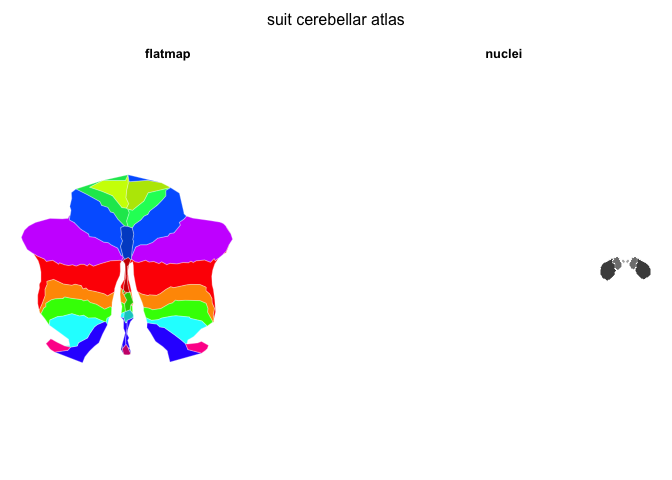
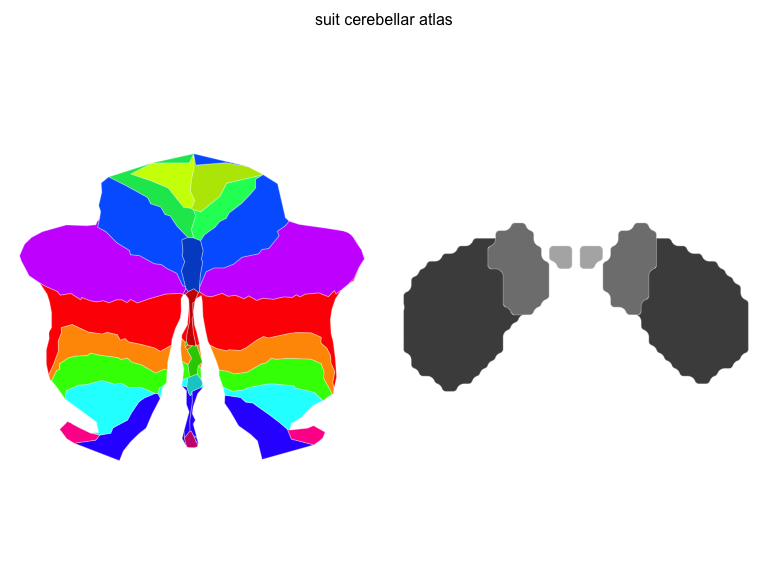
feat: render plot.ggseg_atlas as a grid of per-piece panels
The first base-R rewrite faceted by view with a shared coordinate extent,
which left each atlas a row of near-invisible specks: surface views place
the two hemispheres far apart in one coordinate space, so a shared extent
shrank every region to a dot.

Detect spatially separate pieces (hemispheres, slices) by gap-splitting
each view's coordinates, then draw each piece in its own panel fit to its
own extent, arranged in a near-square grid. Gives a legible overview of
every bundled atlas (dk, aseg, tracula, suit).

- Add pure, tested helpers gap_groups() and plot_cells(); extract draw_piece()
- Regenerate README figures with the grid layout
- Tests for cell detection (8 cells for dk, one per slice view for aseg)

diff --git a/README.md b/README.md
@@ -1,5 +1,4 @@
 
-
 <!-- README.md is generated from README.Rmd. Please edit that file -->
 
 # ggseg.formats
@@ -7,6 +6,8 @@
 <!-- badges: start -->
 
 [![R-CMD-check](https://github.com/ggsegverse/ggseg.formats/actions/workflows/R-CMD-check.yaml/badge.svg)](https://github.com/ggsegverse/ggseg.formats/actions/workflows/R-CMD-check.yaml)
+[![code-quality](https://github.com/ggsegverse/ggseg.formats/actions/workflows/code-quality.yaml/badge.svg)](https://github.com/ggsegverse/ggseg.formats/actions/workflows/code-quality.yaml)
+[![test-coverage](https://github.com/ggsegverse/ggseg.formats/actions/workflows/test-coverage.yaml/badge.svg)](https://github.com/ggsegverse/ggseg.formats/actions/workflows/test-coverage.yaml)
 [![CRAN
 status](https://www.r-pkg.org/badges/version/ggseg.formats)](https://CRAN.R-project.org/package=ggseg.formats)
 [![Lifecycle:
@@ -15,8 +16,8 @@ experimental](https://img.shields.io/badge/lifecycle-experimental-orange.svg)](h
 <!-- badges: end -->
 
 ggseg.formats provides the `ggseg_atlas` S3 class that powers the
-[ggsegverse](https://ggsegverse.github.io/ggseg/) ecosystem for 2D and 3D
-brain visualisation. It ships four bundled atlases, a set of accessor
+[ggsegverse](https://ggsegverse.github.io/ggseg/) ecosystem for 2D and
+3D brain visualisation. It ships four bundled atlases, a set of accessor
 functions for querying atlas contents, and a pipe-friendly manipulation
 API for subsetting, renaming, and enriching atlas objects.
 
@@ -37,25 +38,25 @@ library(ggseg.formats)
 plot(dk())
 ```
 
-<img src="man/figures/README-plot-dk-1.png" style="width:100.0%" />
+<img src="man/figures/README-plot-dk-1.png" alt="" width="100%" />
 
 ``` r
 plot(aseg())
 ```
 
-<img src="man/figures/README-plot-aseg-1.png" style="width:100.0%" />
+<img src="man/figures/README-plot-aseg-1.png" alt="" width="100%" />
 
 ``` r
 plot(tracula())
 ```
 
-<img src="man/figures/README-plot-tracula-1.png" style="width:100.0%" />
+<img src="man/figures/README-plot-tracula-1.png" alt="" width="100%" />
 
 ``` r
 plot(suit())
 ```
 
-<img src="man/figures/README-plot-suit-1.png" style="width:100.0%" />
+<img src="man/figures/README-plot-suit-1.png" alt="" width="100%" />
 
 ## Quick example
 
@@ -70,7 +71,7 @@ aseg_small <- aseg() |>
 plot(aseg_small)
 ```
 
-<img src="man/figures/README-subset-aseg-1.png" style="width:100.0%" />
+<img src="man/figures/README-subset-aseg-1.png" alt="" width="100%" />
 
 ## Installation
 

diff --git a/NEWS.md b/NEWS.md
@@ -9,8 +9,10 @@
 from Imports** — the package no longer depends on ggplot2 for its own plotting.
 
 - `plot()` now returns the atlas invisibly rather than a `ggplot` object; it is
-  called for its side effect (drawing one panel per view). Code that captured
-  the return value to add ggplot2 layers (`plot(atlas) + ...`) must be updated.
+  called for its side effect. Each spatially separate piece (e.g. a hemisphere
+  surface or a slice) is drawn in its own panel, arranged in a near-square grid
+  for a legible overview of the atlas. Code that captured the return value to
+  add ggplot2 layers (`plot(atlas) + ...`) must be updated.
 - The `show.legend` argument is removed; the base-R plot draws no legend. Extra
   arguments in `...` are forwarded to the underlying `polygon()` / `polypath()`
   primitives (e.g. `lwd`, `border`).
